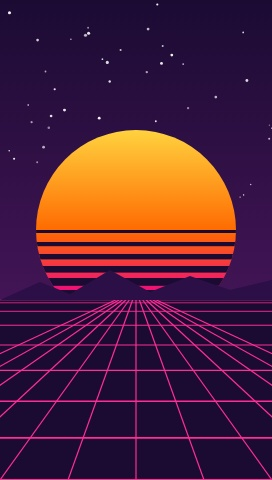
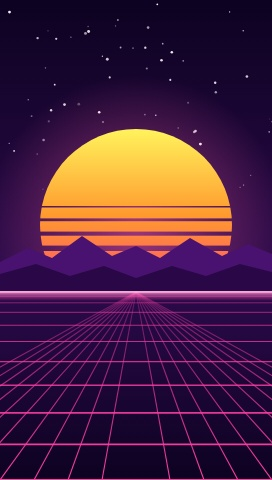
Wallpapers: refined retro sun, five Okinawa designs
- retro-sun-grid redrawn: the sun sets behind two layers of hills, a
  glowing horizon, stripes that widen toward the bottom, and a grid with
  one vanishing point that fades into the distance.
- New, in bright Okinawa colours: a turquoise beach with hibiscus and a
  sea turtle, a shisa guardian on a red-tile roof, a bingata-style
  flower pattern, a whale shark over a coral reef, and a sanshin at
  sunset over the sea.

Claude-Session: https://claude.ai/code/session_01A1EaHWSdT28pKq8RzQE3Kg

diff --git a/wallpapers/README.md b/wallpapers/README.md
@@ -10,6 +10,14 @@ Original wallpapers in the Zune style, made for this fork. Each is
 - equalizer-city
 - retro-sun-grid
 
+Okinawa:
+
+- okinawa-beach
+- shisa-roof
+- bingata-pattern
+- whale-shark-reef
+- sanshin-sunset
+
 ## Putting one on the Zune
 
 1. In the app: settings → library → picture folders → + add folder, and pick
